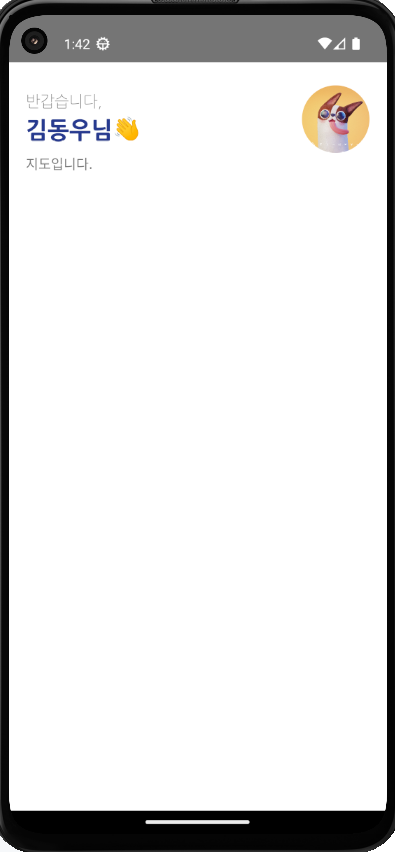
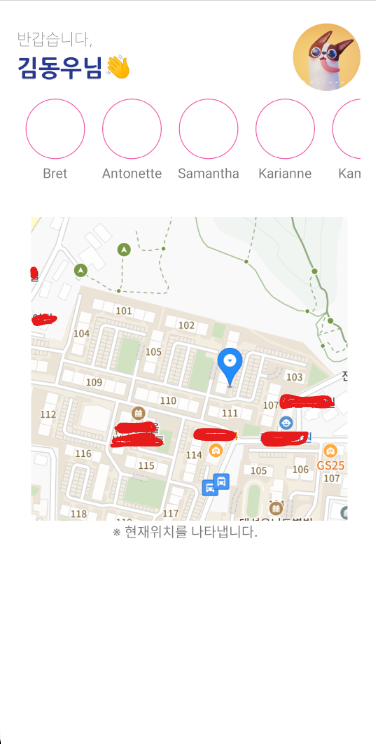
화면 gps 기능 추가, pagination 추가중

diff --git a/components/Map/Map.tsx b/components/Map/Map.tsx
@@ -1,8 +1,15 @@
 import React, {useState, useEffect} from 'react';
-import {View, Platform, PermissionsAndroid} from 'react-native';
+import {
+  View,
+  Platform,
+  PermissionsAndroid,
+  ActivityIndicator,
+} from 'react-native';
 
 import Geolocation from 'react-native-geolocation-service';
+
 import KakaoMap from './Kakao/KakaoMap';
+import Spinner from './Spinner/Spinner';
 import Blank from './Blank/Blank';
 
 interface IPosition {
@@ -14,6 +21,7 @@ export default function Map() {
     latitude: 0,
     longitude: 0,
     show: false,
+    visible: true,
   });
 
   const getPosition = () => {
@@ -22,10 +30,13 @@ export default function Map() {
         const {latitude, longitude} = position.coords;
 
         setPosition(() => {
-          return {latitude, longitude, show: true};
+          return {latitude, longitude, show: true, visible: true};
         });
       },
       err => {
+        setPosition(prev => {
+          return {...prev, show: false, visible: false};
+        });
         console.log(err.code, err.message);
       },
       {
@@ -48,10 +59,16 @@ export default function Map() {
           if (res === 'granted') {
             getPosition();
           } else {
+            setPosition(prev => {
+              return {...prev, show: false, visible: false};
+            });
             console.log(`Don't allow`);
           }
         })
         .catch(err => {
+          setPosition(prev => {
+            return {...prev, show: false, visible: false};
+          });
           console.log(err);
         });
     }
@@ -61,10 +78,11 @@ export default function Map() {
     <View>
       {position.show ? (
         <KakaoMap latitude={position.latitude} longitude={position.longitude} />
+      ) : position.visible ? (
+        <Spinner />
       ) : (
         <Blank />
       )}
-      <Blank />
     </View>
   );
 }

diff --git a/components/Users/Users.tsx b/components/Users/Users.tsx
@@ -1,0 +1,52 @@
+import React, {useState, useCallback, useEffect} from 'react';
+
+import {View, Text, FlatList, Image} from 'react-native';
+
+import style from './style';
+
+import USERS from '../../mock/mockapi';
+import {GET} from '../../axios/axios';
+
+interface ItemData {
+  [key: string]: string | number | {[key: string]: string};
+}
+
+function UserList({item}: {item: ItemData}) {
+  return (
+    <View style={style.innerContainer}>
+      <View style={style.list}>
+        <View style={style.profileImg} />
+        {typeof item.username === 'string' && (
+          <Text style={style.username}>{item.username}</Text>
+        )}
+      </View>
+    </View>
+  );
+}
+
+export default function Users() {
+  const [user, setUser] = useState<Array<ItemData>>();
+
+  const getUser = useCallback(async () => {
+    const res = await GET();
+    setUser(res);
+  }, []);
+
+  useEffect(() => {
+    getUser();
+  }, []);
+
+  return (
+    <View>
+      <FlatList
+        horizontal={true}
+        data={user}
+        onEndReachedThreshold={0.5}
+        showsVerticalScrollIndicator={false}
+        renderItem={({item}: {item: ItemData}) => {
+          return <UserList item={item} />;
+        }}
+      />
+    </View>
+  );
+}

diff --git a/components/Map/Blank/Blank.tsx b/components/Map/Blank/Blank.tsx
@@ -5,19 +5,16 @@ import {View, Text} from 'react-native';
 import style from './style';
 import {LinearGradient} from 'react-native-gradients';
 
-export default function Blank() {
+const colorList = [
+  {offset: '73%', color: '#64e8db', opacity: '1'},
+  {offset: '27%', color: '#8a64eb', opacity: '1'},
+];
+
+export default function Spinner() {
   return (
-    <View style={style.container}>
-      <LinearGradient
-        colorList={[
-          {offset: '0%', color: '#231557', opacity: '1'},
-          {offset: '29%', color: '#44107A', opacity: '1'},
-          {offset: '67%', color: '#FF1361', opacity: '1'},
-          {offset: '100%', color: '#FFF800', opacity: '1'},
-        ]}
-        angle={90}
-      />
-      <Text>지도를 가져올 수가 없어요.😮</Text>
+    <View style={[style.container]}>
+      <LinearGradient angle={148} colorList={colorList} />
+      <Text style={style.innerText}>지도를 가져올 수가 없어요.😮</Text>
     </View>
   );
 }

diff --git a/components/Users/style.ts b/components/Users/style.ts
@@ -1,0 +1,31 @@
+import {StyleSheet} from 'react-native';
+import {
+  fontScale,
+  horizontalScale,
+  verticalScale,
+} from '../../assets/style/scaling';
+import {fontFamilyScale} from '../../assets/style/globalStyle';
+
+const style = StyleSheet.create({
+  innerContainer: {},
+  profileImg: {
+    width: horizontalScale(55),
+    height: verticalScale(55),
+    borderRadius: 100,
+    marginVertical: verticalScale(4),
+    marginHorizontal: horizontalScale(5),
+    borderColor: '#F35BAC',
+    borderWidth: 1,
+  },
+  list: {
+    fontFamily: fontFamilyScale('NanumGothic', 800),
+    fontSize: fontScale(13),
+    color: '#022150',
+    padding: horizontalScale(3),
+    justifyContent: 'center',
+    alignItems: 'center',
+  },
+  username: {},
+});
+
+export default style;

diff --git a/components/Map/Spinner/style.ts b/components/Map/Spinner/style.ts
@@ -1,10 +1,5 @@
 import {StyleSheet} from 'react-native';
-import {
-  fontScale,
-  horizontalScale,
-  verticalScale,
-} from '../../../assets/style/scaling';
-import {fontFamilyScale} from '../../../assets/style/globalStyle';
+import {horizontalScale, verticalScale} from '../../../assets/style/scaling';
 
 const style = StyleSheet.create({
   container: {
@@ -15,13 +10,7 @@ const style = StyleSheet.create({
     justifyContent: 'center',
     alignItems: 'center',
     marginHorizontal: horizontalScale(6),
-    backgroundColor: 'transparent',
-  },
-  innerText: {
-    position: 'absolute',
-    color: '#fff',
-    fontFamily: fontFamilyScale('NanumGothic', 600),
-    fontSize: fontScale(16),
+    borderWidth: 0.3,
   },
 });
 

diff --git a/screens/Home/Home.tsx b/screens/Home/Home.tsx
@@ -7,6 +7,7 @@ import {globalStyle} from '../../assets/style/globalStyle';
 import style from './style';
 import Header from '../../components/Header/Header';
 import Map from '../../components/Map/Map';
+import Users from '../../components/Users/Users';
 
 export default function Home({
   navigation,
@@ -15,6 +16,7 @@ export default function Home({
     <SafeAreaView
       style={[globalStyle.bgColor, globalStyle.paddingAround, style.height]}>
       <Header />
+      <Users />
       <Map />
     </SafeAreaView>
   );

diff --git a/components/Map/Kakao/KakaoMap.tsx b/components/Map/Kakao/KakaoMap.tsx
@@ -47,7 +47,7 @@ export default function KakaoMap({latitude, longitude}: IKakaoMap) {
       style={{
         width: horizontalScale(300),
         height: verticalScale(300),
-        marginTop: verticalScale(42),
+        marginTop: verticalScale(22),
         flexDirection: 'column',
         justifyContent: 'center',
         alignItems: 'center',

diff --git a/components/Map/Spinner/Spinner.tsx b/components/Map/Spinner/Spinner.tsx
@@ -1,0 +1,13 @@
+import React from 'react';
+
+import {ActivityIndicator, View} from 'react-native/';
+
+import style from './style';
+
+export default function Spinner() {
+  return (
+    <View style={style.container}>
+      <ActivityIndicator size="large" />
+    </View>
+  );
+}

diff --git a/axios/axios.ts b/axios/axios.ts
@@ -1,0 +1,12 @@
+import axios from 'axios';
+
+export const GET = async () => {
+  try {
+    const {data} = await axios.get(
+      'https://jsonplaceholder.typicode.com/users',
+    );
+    return data;
+  } catch (err) {
+    console.log(err);
+  }
+};

diff --git a/mock/mockapi.ts b/mock/mockapi.ts
@@ -1,4 +1,4 @@
-const FRIENDS = [
+const USERS = [
   {
     id: 1,
     name: '유재석',
@@ -40,3 +40,5 @@ const FRIENDS = [
     name: '바이든',
   },
 ];
+
+export default USERS;

diff --git a/components/common/pagination.ts b/components/common/pagination.ts
@@ -1,0 +1,5 @@
+const pagination = (page: number) => {
+  if (!page) {
+    return;
+  }
+};
